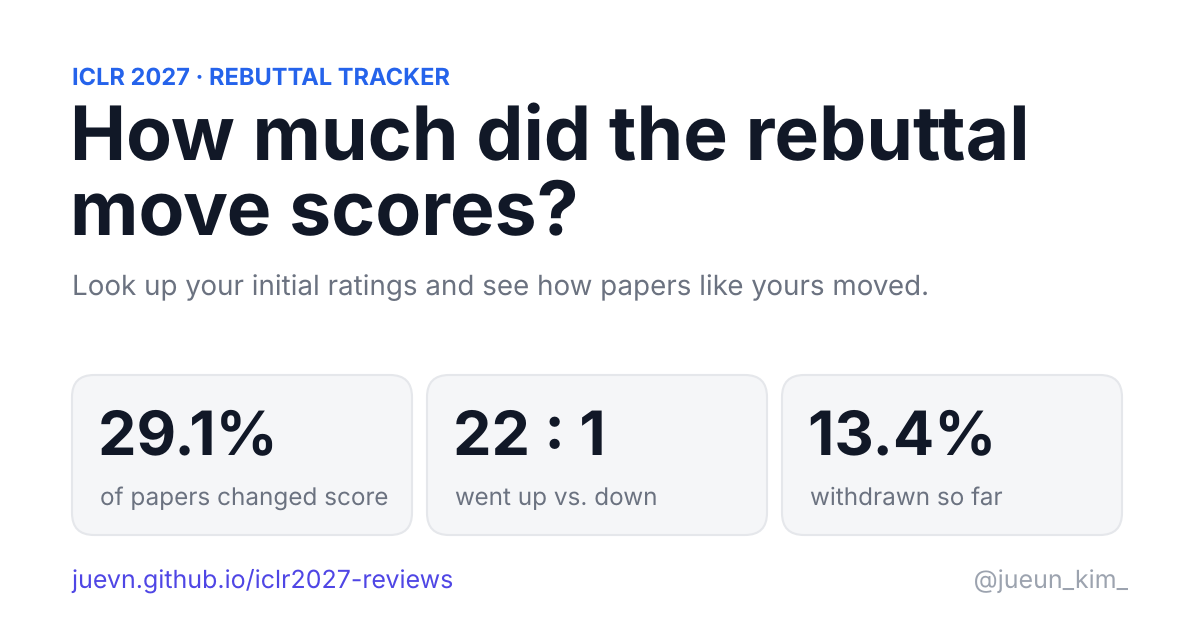
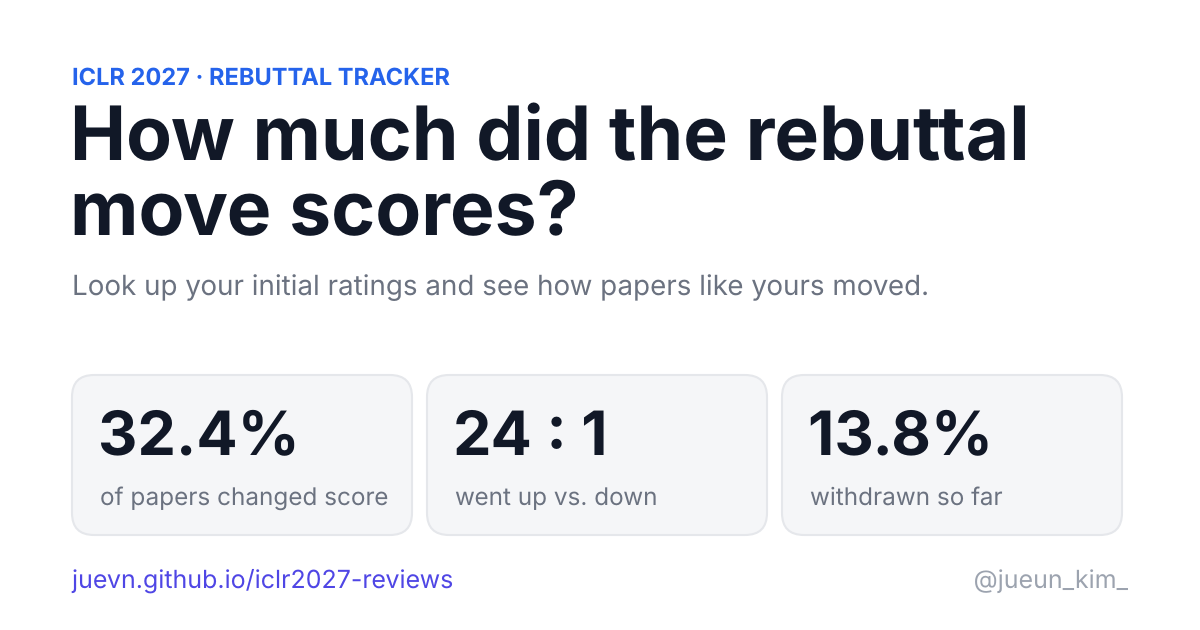
Update to 2026-11-19T03:09:58Z

diff --git a/data.js b/data.js
@@ -5,118 +5,118 @@ window.ICLR_DATA = {
   venue: "ICLR 2027",
   scale: [1,4],
   baseline: {"at":"2026-11-06T13:54:47Z","source":"https://shiqiangw.github.io/iclr-2027-scores/","by":"shiqiangw"},
-  updated: "2026-11-18T17:09:21Z",
+  updated: "2026-11-19T03:09:58Z",
   discussionEnds: "2026-11-18",
   decisions: "2026-12-16",
   combos: {
-    "1":[2,0,0,0,0,0,0,0],"2":[2,0,0,0,0,0,0,0],"11":[27,9,0,13,2,0,0,4],"21":[73,15,0,30,3,0,0,3],"22":[104,7,0,59,9,0,0,9],"31":[24,0,0,13,3,0,0,4],
-    "32":[75,0,0,33,9,1,0,8],"33":[20,0,0,14,2,0,0,2],"41":[1,0,0,1,1,0,0,1],"42":[5,0,0,3,1,0,0,1],"43":[2,0,0,1,0,0,0,0],"44":[1,0,0,1,0,0,0,0],
-    "111":[764,248,0,514,12,0,0,14],"211":[3062,953,1,2098,144,20,0,158],"221":[6602,1851,5,4727,821,40,0,998],"222":[7463,1127,3,6312,1721,45,7,2223],"311":[651,132,1,514,66,27,2,50],"321":[3548,418,0,3118,833,69,3,999],
-    "322":[7667,165,2,7474,2637,88,8,3269],"331":[675,4,0,668,216,10,4,274],"332":[3733,8,1,3710,1419,60,5,1556],"333":[773,0,0,769,159,0,0,189],"411":[30,3,0,27,5,1,0,4],"421":[215,9,1,205,59,6,1,66],
-    "422":[418,1,0,417,154,8,6,197],"431":[79,0,0,77,19,1,0,30],"432":[515,1,0,512,214,5,0,226],"433":[198,0,0,195,39,1,0,41],"441":[6,0,0,6,2,0,1,3],"442":[40,0,0,39,18,0,1,21],
-    "443":[28,0,0,28,4,1,0,3],"444":[2,0,0,2,0,0,0,0],"1111":[29,5,1,23,0,0,0,0],"2111":[107,27,0,78,4,1,0,3],"2211":[245,74,0,171,16,1,0,18],"2221":[428,101,0,321,73,1,2,113],
-    "2222":[455,96,1,357,114,1,1,158],"3111":[17,5,0,12,0,1,0,-1],"3211":[111,19,0,91,12,4,0,12],"3221":[336,46,0,290,98,7,0,124],"3222":[565,37,0,525,229,7,1,306],"3311":[28,4,0,24,6,0,1,6],
-    "3321":[133,4,0,129,55,1,0,73],"3322":[435,2,0,425,191,8,1,251],"3331":[27,0,0,27,7,2,0,9],"3332":[156,0,0,155,63,2,0,74],"3333":[17,0,0,17,2,1,0,1],"4111":[1,1,0,0,0,0,0,0],
-    "4211":[8,0,0,8,1,0,0,3],"4221":[25,2,0,23,8,1,0,15],"4222":[40,0,0,40,20,0,0,24],"4311":[1,0,0,1,0,0,0,0],"4321":[28,0,0,28,10,3,0,5],"4322":[51,0,0,51,22,2,0,25],
-    "4331":[8,0,0,8,4,0,0,5],"4332":[38,0,0,38,13,1,1,11],"4333":[7,0,0,7,0,0,0,0],"4421":[1,0,0,1,1,0,0,1],"4422":[3,0,0,3,2,0,0,3],"4431":[2,0,0,2,2,0,0,4],
-    "4432":[3,0,0,3,0,0,0,0],"4433":[4,0,0,4,0,0,0,0],"4443":[1,0,0,1,0,0,0,0],"11111":[4,1,0,3,0,0,0,0],"21111":[6,2,0,4,0,0,0,0],"22111":[14,4,0,10,2,0,0,2],
-    "22211":[22,9,0,13,2,0,0,3],"22221":[32,8,0,24,5,0,0,10],"22222":[19,3,0,16,7,0,0,8],"32111":[8,2,0,6,1,0,0,1],"32211":[21,4,0,17,3,1,2,3],"32221":[29,9,0,20,11,0,0,16],
-    "32222":[37,4,0,33,14,0,0,19],"33211":[2,0,0,2,0,1,0,-1],"33221":[27,0,0,27,11,1,0,22],"33222":[46,2,0,44,22,0,1,32],"33311":[2,0,0,2,0,0,0,0],"33321":[4,0,0,4,2,0,0,2],
-    "33322":[14,0,0,14,8,0,0,11],"33331":[2,0,0,2,0,0,0,0],"33332":[7,0,0,7,4,0,0,6],"33333":[2,0,0,2,0,0,0,0],"42221":[3,0,0,3,1,0,0,2],"42222":[1,0,0,1,0,0,0,0],
-    "43211":[1,0,0,1,1,0,0,2],"43221":[1,0,0,1,1,0,0,1],"43222":[7,0,0,7,3,1,0,3],"43322":[2,0,0,2,1,0,0,1],"43331":[1,0,0,1,0,0,0,0],"43332":[4,0,0,4,2,0,0,4],
-    "43333":[1,0,0,1,0,0,0,0],"44311":[1,0,0,1,0,0,0,0],"44322":[3,0,0,3,1,0,0,2],"44332":[3,0,0,3,2,0,0,2],"211111":[1,1,0,0,0,0,0,0],"221111":[1,1,0,0,0,0,0,0],
-    "222211":[2,1,0,1,0,0,0,0],"222221":[2,1,0,1,1,0,0,1],"322211":[1,0,0,1,1,0,0,1],"322221":[1,0,0,1,0,0,0,0],"322222":[3,0,0,3,1,0,0,1],"332222":[2,0,0,2,0,1,0,-1],
+    "1":[2,0,0,0,0,0,0,0],"2":[2,0,0,0,0,0,0,0],"11":[27,9,0,13,2,0,0,5],"21":[73,15,0,30,3,0,0,3],"22":[104,8,0,55,11,0,0,15],"31":[24,0,0,13,3,0,0,4],
+    "32":[75,0,0,33,9,0,0,9],"33":[20,0,0,14,2,0,0,2],"41":[1,0,0,1,1,0,0,1],"42":[5,0,0,3,1,0,0,1],"43":[2,0,0,1,0,0,0,0],"44":[1,0,0,1,0,0,0,0],
+    "111":[764,253,0,508,16,0,0,19],"211":[3062,986,1,2065,159,20,0,192],"221":[6602,1902,5,4677,916,42,0,1155],"222":[7463,1151,3,6288,1897,49,9,2504],"311":[651,137,1,509,74,28,0,59],"321":[3548,432,0,3104,942,69,3,1163],
+    "322":[7667,172,2,7467,2936,98,10,3696],"331":[675,4,0,668,247,11,4,317],"332":[3733,8,1,3710,1560,57,6,1730],"333":[773,0,0,769,169,1,0,200],"411":[30,4,0,26,6,0,0,7],"421":[215,10,1,204,75,8,1,85],
+    "422":[418,2,0,416,167,9,7,218],"431":[79,0,0,77,21,1,0,35],"432":[515,1,0,512,237,5,0,256],"433":[198,0,0,195,43,2,0,45],"441":[6,0,0,6,2,0,1,3],"442":[40,0,0,39,18,0,1,21],
+    "443":[28,0,0,28,4,1,0,3],"444":[2,0,0,2,0,0,0,0],"1111":[29,5,1,23,0,0,0,0],"2111":[107,27,0,78,5,1,0,4],"2211":[245,76,0,169,18,1,0,23],"2221":[428,103,0,319,77,1,2,124],
+    "2222":[455,100,1,353,124,0,1,176],"3111":[17,5,0,12,1,1,0,0],"3211":[111,23,0,87,15,5,0,16],"3221":[336,47,0,289,108,8,0,138],"3222":[565,38,0,524,251,6,2,353],"3311":[28,4,0,24,6,0,1,6],
+    "3321":[133,4,0,129,62,2,0,83],"3322":[435,2,0,425,212,8,1,279],"3331":[27,0,0,27,7,2,0,9],"3332":[156,0,0,155,72,1,0,86],"3333":[17,0,0,17,2,1,0,1],"4111":[1,1,0,0,0,0,0,0],
+    "4211":[8,0,0,8,1,0,0,3],"4221":[25,2,0,23,8,1,0,16],"4222":[40,0,0,40,21,0,0,26],"4311":[1,0,0,1,0,0,0,0],"4321":[28,0,0,28,13,3,0,11],"4322":[51,0,0,51,23,1,1,30],
+    "4331":[8,0,0,8,4,0,0,5],"4332":[38,0,0,38,15,1,1,13],"4333":[7,0,0,7,0,0,0,0],"4421":[1,0,0,1,1,0,0,2],"4422":[3,0,0,3,2,0,0,3],"4431":[2,0,0,2,2,0,0,4],
+    "4432":[3,0,0,3,0,0,0,0],"4433":[4,0,0,4,0,0,0,0],"4443":[1,0,0,1,0,0,0,0],"11111":[4,1,0,3,0,0,0,0],"21111":[6,2,0,4,0,0,0,0],"22111":[14,4,0,10,3,0,0,3],
+    "22211":[22,9,0,13,2,0,0,3],"22221":[32,8,0,24,5,0,0,11],"22222":[19,3,0,16,8,0,0,10],"32111":[8,2,0,6,1,0,0,1],"32211":[21,4,0,17,4,1,2,4],"32221":[29,9,0,20,11,0,0,18],
+    "32222":[37,4,0,33,14,0,0,20],"33211":[2,0,0,2,0,1,0,-1],"33221":[27,0,0,27,12,1,0,25],"33222":[46,2,0,44,25,0,1,39],"33311":[2,0,0,2,0,0,0,0],"33321":[4,0,0,4,2,0,0,3],
+    "33322":[14,0,0,14,8,0,0,11],"33331":[2,0,0,2,0,0,0,0],"33332":[7,0,0,7,4,0,0,6],"33333":[2,0,0,2,0,0,0,0],"42221":[3,0,0,3,1,0,0,3],"42222":[1,0,0,1,0,0,0,0],
+    "43211":[1,0,0,1,1,0,0,2],"43221":[1,0,0,1,1,0,0,2],"43222":[7,0,0,7,3,1,0,5],"43322":[2,0,0,2,1,0,0,1],"43331":[1,0,0,1,0,0,0,0],"43332":[4,0,0,4,2,0,0,4],
+    "43333":[1,0,0,1,0,0,0,0],"44311":[1,0,0,1,0,0,0,0],"44322":[3,0,0,3,1,0,0,2],"44332":[3,0,0,3,2,0,0,3],"211111":[1,1,0,0,0,0,0,0],"221111":[1,1,0,0,0,0,0,0],
+    "222211":[2,1,0,1,0,0,0,0],"222221":[2,1,0,1,1,0,0,1],"322211":[1,0,0,1,1,0,0,2],"322221":[1,0,0,1,0,0,0,0],"322222":[3,0,0,3,1,0,0,1],"332222":[2,0,0,2,0,1,0,-1],
     "333222":[1,0,0,1,1,0,0,1],"432211":[1,0,0,1,1,0,0,1],"433321":[1,0,0,1,0,0,0,0],"2222211":[1,0,0,1,0,0,0,0]
   },
   // Mean rating now -> number of papers still under review, for ranking a score against today's field.
-  currentMeans: {"n":35134,"h":{"1.00":570,"1.20":5,"1.25":81,"1.33":2028,"1.40":8,"1.50":215,"1.60":21,"1.67":4557,"1.71":1,"1.75":356,"1.80":39,"2.00":8311,"2.17":3,"2.20":57,"2.25":585,"2.33":7509,"2.40":49,"2.50":607,"2.60":43,"2.67":5317,"2.75":383,"2.80":23,"3.00":3303,"3.20":4,"3.25":60,"3.33":815,"3.40":6,"3.50":14,"3.67":141,"3.75":2,"4.00":21}},
+  currentMeans: {"n":34976,"h":{"1.00":560,"1.20":5,"1.25":80,"1.33":1985,"1.40":7,"1.50":211,"1.60":22,"1.67":4405,"1.71":1,"1.75":343,"1.80":38,"2.00":8023,"2.17":4,"2.20":55,"2.25":574,"2.33":7337,"2.40":47,"2.50":589,"2.60":42,"2.67":5480,"2.75":409,"2.80":26,"3.00":3562,"3.20":4,"3.25":71,"3.33":897,"3.40":5,"3.50":15,"3.60":1,"3.67":152,"3.75":2,"4.00":24}},
   // Review-level moves. exact: the pairing of initial and current ratings is unique.
   // inferred: more than one pairing fits, smallest-change one used.
-  reviews: {"analyzed":107493,"modified":32535,"changed":11725,"exact":10157,"inferred":1568,"initial":{"1":17716,"2":61383,"3":26532,"4":1862},"moves":{"2>3":8094,"1>2":1274,"3>4":860,"2>4":539,"1>3":441,"2>1":230,"3>2":212,"1>4":26,"4>3":25,"3>1":17,"4>2":7}},
+  reviews: {"analyzed":107003,"modified":34634,"changed":13153,"exact":11268,"inferred":1885,"initial":{"1":17540,"2":61104,"3":26500,"4":1859},"moves":{"2>3":9088,"1>2":1412,"3>4":918,"2>4":623,"1>3":562,"2>1":255,"3>2":210,"1>4":32,"4>3":27,"3>1":18,"4>2":7,"4>1":1}},
   // dest: initial ratings -> current ratings of the papers that changed (same number of reviews), with counts.
   dest: {
-    "11":{"31":2},
+    "11":{"31":1,"32":1},
     "21":{"22":1,"31":2},
-    "22":{"32":9},
+    "22":{"32":8,"33":2,"43":1},
     "31":{"32":2,"42":1},
-    "32":{"22":1,"33":9},
+    "32":{"33":9},
     "33":{"43":2},
     "41":{"42":1},
     "42":{"43":1},
-    "111":{"211":10,"221":1,"311":1},
-    "211":{"111":20,"221":97,"222":9,"311":21,"321":11,"322":2,"331":2,"332":1,"422":1},
-    "221":{"211":40,"222":371,"321":284,"322":97,"331":23,"332":29,"333":5,"421":5,"422":1,"431":2,"432":3,"433":1},
-    "222":{"211":1,"221":44,"321":7,"322":1262,"331":3,"332":349,"333":68,"422":22,"432":10,"433":6,"442":1},
-    "311":{"111":3,"211":24,"221":2,"222":2,"321":48,"322":9,"331":1,"332":1,"411":3,"421":2},
-    "321":{"211":3,"221":51,"222":3,"311":15,"322":380,"331":230,"332":119,"333":32,"421":39,"422":5,"431":11,"432":12,"433":4,"442":1},
-    "322":{"221":4,"222":47,"311":1,"321":36,"331":7,"332":1844,"333":455,"421":1,"422":141,"431":1,"432":126,"433":61,"442":5,"443":4},
-    "331":{"311":1,"321":9,"322":3,"332":118,"333":41,"421":1,"431":37,"432":12,"433":3,"441":3,"443":1,"444":1},
-    "332":{"222":1,"321":4,"322":31,"331":24,"333":1020,"422":3,"431":2,"432":216,"433":156,"442":10,"443":15,"444":2},
-    "333":{"433":134,"443":20,"444":5},
-    "411":{"211":1,"421":4,"422":1},
-    "421":{"321":6,"322":1,"422":20,"431":26,"432":13},
-    "422":{"222":1,"322":4,"332":5,"421":3,"431":1,"432":106,"433":41,"442":3,"443":4},
-    "431":{"331":1,"432":7,"433":8,"441":2,"443":2},
-    "432":{"322":1,"411":1,"422":2,"431":1,"433":164,"442":30,"443":20},
-    "433":{"333":1,"443":36,"444":3},
+    "111":{"211":13,"221":2,"311":1},
+    "211":{"111":20,"221":97,"222":15,"311":21,"321":17,"322":3,"331":3,"332":2,"422":1},
+    "221":{"211":42,"222":392,"321":309,"322":128,"331":28,"332":40,"333":7,"421":5,"422":1,"431":2,"432":3,"433":1},
+    "222":{"211":1,"221":48,"321":9,"322":1351,"331":4,"332":414,"333":87,"422":22,"432":10,"433":9},
+    "311":{"111":3,"211":25,"222":3,"321":53,"322":10,"331":1,"332":1,"411":3,"421":3},
+    "321":{"211":1,"221":51,"222":3,"311":17,"322":427,"331":248,"332":146,"333":37,"421":41,"422":6,"431":16,"432":14,"433":6,"442":1},
+    "322":{"221":5,"222":49,"311":1,"321":43,"331":8,"332":2012,"333":552,"421":2,"422":148,"431":2,"432":137,"433":75,"441":1,"442":4,"443":4,"444":1},
+    "331":{"311":2,"321":9,"322":3,"332":138,"333":49,"421":1,"431":36,"432":14,"433":5,"441":3,"443":1,"444":1},
+    "332":{"222":1,"321":6,"322":26,"331":24,"333":1118,"422":3,"431":3,"432":230,"433":179,"442":13,"443":18,"444":2},
+    "333":{"332":1,"433":142,"443":22,"444":5},
+    "411":{"421":5,"422":1},
+    "421":{"211":1,"221":1,"321":6,"322":1,"422":29,"431":28,"432":14,"433":2,"441":1,"442":1},
+    "422":{"222":1,"322":5,"332":5,"421":3,"431":2,"432":110,"433":50,"442":3,"443":4},
+    "431":{"331":1,"432":6,"433":11,"441":2,"443":2},
+    "432":{"322":1,"422":2,"431":2,"433":181,"442":32,"443":23,"444":1},
+    "433":{"333":2,"443":39,"444":4},
     "441":{"432":1,"442":1,"443":1},
     "442":{"433":1,"443":15,"444":3},
     "443":{"433":1,"444":4},
-    "2111":{"1111":1,"2211":4},
-    "2211":{"2111":1,"2221":9,"2222":1,"3211":4,"3221":1,"3311":1},
-    "2221":{"2211":1,"2222":17,"3211":2,"3221":27,"3222":10,"3321":7,"3322":5,"3331":4,"3332":1,"4221":1,"4222":1},
-    "2222":{"2221":1,"3221":1,"3222":76,"3322":29,"3332":4,"4222":3,"4322":1,"4332":1},
-    "3111":{"2111":1},
-    "3211":{"2211":4,"3221":8,"3321":2,"3322":1,"4211":1},
-    "3221":{"2111":1,"2221":5,"3211":1,"3222":32,"3321":37,"3322":14,"3331":4,"3332":5,"3333":1,"4221":1,"4222":1,"4321":3},
-    "3222":{"2222":5,"3221":2,"3321":1,"3322":148,"3332":44,"3333":12,"4222":12,"4322":10,"4332":3},
+    "2111":{"1111":1,"2211":4,"3111":1},
+    "2211":{"2111":1,"2221":9,"2222":2,"3211":4,"3221":2,"3321":1},
+    "2221":{"2211":1,"2222":19,"3211":2,"3221":26,"3222":11,"3321":8,"3322":5,"3331":4,"3332":2,"4222":1,"4421":1},
+    "2222":{"3221":1,"3222":82,"3321":1,"3322":29,"3332":7,"4222":3,"4322":1,"4333":1},
+    "3111":{"2111":1,"3211":1},
+    "3211":{"2211":5,"3221":9,"3321":4,"3322":1,"4211":1},
+    "3221":{"2111":1,"2221":5,"3211":2,"3222":37,"3321":39,"3322":15,"3331":5,"3332":6,"3333":1,"4221":1,"4321":3,"4322":1},
+    "3222":{"2222":5,"3221":1,"3321":2,"3322":153,"3332":50,"3333":17,"4222":12,"4322":14,"4332":5},
     "3311":{"3221":1,"3321":4,"4311":2},
-    "3321":{"3221":1,"3322":22,"3331":16,"3332":8,"3333":2,"4321":3,"4322":1,"4331":1,"4332":1,"4333":1},
-    "3322":{"3222":5,"3321":3,"3331":1,"3332":119,"3333":30,"4322":15,"4332":15,"4333":9,"4422":1,"4432":2},
+    "3321":{"3221":2,"3322":23,"3331":19,"3332":8,"3333":4,"4321":4,"4322":1,"4331":1,"4332":1,"4333":1},
+    "3322":{"3222":5,"3321":3,"3331":1,"3332":132,"3333":33,"4322":17,"4332":17,"4333":10,"4422":1,"4432":2},
     "3331":{"3321":2,"3332":3,"3333":1,"4331":1,"4332":1,"4333":1},
-    "3332":{"3322":2,"3333":44,"4332":9,"4333":6,"4432":1,"4433":3},
+    "3332":{"3322":1,"3333":52,"4332":8,"4333":8,"4432":1,"4433":3},
     "3333":{"3332":1,"4333":2},
     "4211":{"4322":1},
-    "4221":{"3221":1,"4222":1,"4321":3,"4322":1,"4332":1,"4431":1,"4432":1},
-    "4222":{"4322":17,"4332":2,"4333":1},
-    "4321":{"3221":2,"3321":1,"4322":8,"4331":1,"4421":1},
-    "4322":{"3222":1,"3322":1,"4332":15,"4333":6,"4422":1},
+    "4221":{"3221":1,"4222":1,"4321":3,"4322":1,"4332":1,"4432":2},
+    "4222":{"4322":17,"4332":3,"4333":1},
+    "4321":{"3221":2,"3321":1,"4322":9,"4331":1,"4332":1,"4422":1,"4431":1},
+    "4322":{"3222":1,"3332":1,"4332":14,"4333":8,"4432":1},
     "4331":{"4332":1,"4431":2,"4432":1},
-    "4332":{"3322":1,"3333":1,"4333":11,"4432":2},
-    "4421":{"4422":1},
+    "4332":{"3322":1,"3333":1,"4333":12,"4432":3},
+    "4421":{"4432":1},
     "4422":{"4432":1,"4433":1},
     "4431":{"4432":1,"4443":1},
-    "22111":{"22211":2},
+    "22111":{"22211":3},
     "22211":{"32211":1,"32221":1},
-    "22221":{"32221":2,"33321":2,"42221":1},
-    "22222":{"32222":6,"33222":1},
+    "22221":{"32221":1,"32222":1,"33321":2,"42221":1},
+    "22222":{"32222":6,"33222":2},
     "32111":{"32211":1},
-    "32211":{"22211":1,"22221":2,"32221":2,"33221":1},
-    "32221":{"32222":3,"33221":5,"33321":1,"33322":2},
-    "32222":{"33222":12,"33332":1,"33333":1},
+    "32211":{"22211":1,"22221":2,"32221":2,"33211":1,"33221":1},
+    "32221":{"32222":2,"33221":4,"33222":1,"33321":2,"33322":2},
+    "32222":{"33222":11,"33322":1,"33332":1,"33333":1},
     "33211":{"33111":1},
-    "33221":{"32221":1,"33222":2,"33321":2,"33322":2,"33331":1,"33332":2,"43321":1,"44431":1},
-    "33222":{"33321":1,"33322":13,"33332":5,"33333":1,"43222":2,"43333":1},
-    "33321":{"33322":2},
+    "33221":{"32221":1,"33222":3,"33321":2,"33322":2,"33331":1,"33332":2,"43332":1,"44431":1},
+    "33222":{"33321":1,"33322":13,"33332":6,"33333":2,"43222":2,"43322":1,"43333":1},
+    "33321":{"33322":1,"33332":1},
     "33322":{"33332":5,"33333":2,"43332":1},
     "33332":{"33333":2,"43332":1,"44333":1},
-    "42221":{"43222":1},
+    "42221":{"43322":1},
     "43211":{"43321":1},
-    "43221":{"43222":1},
-    "43222":{"43221":1,"43322":2,"43332":1},
+    "43221":{"43322":1},
+    "43222":{"43221":1,"43332":3},
     "43322":{"43332":1},
     "43332":{"44333":1,"44432":1},
     "44322":{"44333":1},
-    "44332":{"44432":2},
+    "44332":{"44432":1,"44433":1},
     "222221":{"322221":1},
-    "322211":{"332211":1},
+    "322211":{"332221":1},
     "322222":{"332222":1},
     "332222":{"332221":1},
     "333222":{"333322":1},
     "432211":{"432221":1}
   },
   // moveTimes: changed reviews per move, by 3-hour UTC bucket of the review's last edit (a later text-only edit moves it).
-  moveTimes: {"2>3":{"2026-11-06T12":2,"2026-11-06T18":2,"2026-11-07T03":1,"2026-11-08T03":1,"2026-11-08T12":1,"2026-11-09T03":2,"2026-11-09T15":2,"2026-11-09T18":1,"2026-11-09T21":2,"2026-11-10T00":1,"2026-11-10T03":1,"2026-11-10T06":3,"2026-11-10T09":1,"2026-11-10T12":1,"2026-11-10T18":2,"2026-11-10T21":2,"2026-11-11T00":3,"2026-11-11T06":2,"2026-11-11T09":4,"2026-11-11T12":3,"2026-11-11T15":3,"2026-11-11T18":3,"2026-11-11T21":1,"2026-11-12T00":9,"2026-11-12T03":7,"2026-11-12T06":8,"2026-11-12T09":5,"2026-11-12T12":4,"2026-11-12T15":11,"2026-11-12T18":8,"2026-11-12T21":5,"2026-11-13T00":5,"2026-11-13T03":19,"2026-11-13T06":17,"2026-11-13T09":18,"2026-11-13T12":17,"2026-11-13T15":15,"2026-11-13T18":23,"2026-11-13T21":23,"2026-11-14T00":12,"2026-11-14T03":82,"2026-11-14T06":132,"2026-11-14T09":70,"2026-11-14T12":71,"2026-11-14T15":54,"2026-11-14T18":42,"2026-11-14T21":32,"2026-11-15T00":51,"2026-11-15T03":56,"2026-11-15T06":89,"2026-11-15T09":75,"2026-11-15T12":74,"2026-11-15T15":75,"2026-11-15T18":37,"2026-11-15T21":38,"2026-11-16T00":105,"2026-11-16T03":160,"2026-11-16T06":196,"2026-11-16T09":174,"2026-11-16T12":174,"2026-11-16T15":158,"2026-11-16T18":106,"2026-11-16T21":81,"2026-11-17T00":156,"2026-11-17T03":233,"2026-11-17T06":846,"2026-11-17T09":427,"2026-11-17T12":426,"2026-11-17T15":387,"2026-11-17T18":252,"2026-11-17T21":200,"2026-11-18T00":338,"2026-11-18T03":539,"2026-11-18T06":601,"2026-11-18T09":496,"2026-11-18T12":462,"2026-11-18T15":349},"1>2":{"2026-11-06T18":1,"2026-11-07T15":1,"2026-11-07T18":1,"2026-11-08T00":1,"2026-11-09T00":1,"2026-11-09T06":1,"2026-11-10T00":1,"2026-11-10T12":4,"2026-11-10T15":1,"2026-11-10T18":1,"2026-11-11T03":1,"2026-11-11T06":1,"2026-11-11T18":1,"2026-11-12T03":2,"2026-11-12T06":1,"2026-11-12T12":2,"2026-11-12T15":1,"2026-11-12T21":2,"2026-11-13T03":6,"2026-11-13T06":6,"2026-11-13T09":5,"2026-11-13T12":5,"2026-11-13T15":4,"2026-11-13T18":3,"2026-11-13T21":4,"2026-11-14T00":2,"2026-11-14T03":18,"2026-11-14T06":19,"2026-11-14T09":22,"2026-11-14T12":17,"2026-11-14T15":11,"2026-11-14T18":10,"2026-11-14T21":3,"2026-11-15T00":10,"2026-11-15T03":10,"2026-11-15T06":8,"2026-11-15T09":11,"2026-11-15T12":9,"2026-11-15T15":8,"2026-11-15T18":10,"2026-11-15T21":7,"2026-11-16T00":14,"2026-11-16T03":16,"2026-11-16T06":21,"2026-11-16T09":22,"2026-11-16T12":29,"2026-11-16T15":27,"2026-11-16T18":23,"2026-11-16T21":18,"2026-11-17T00":14,"2026-11-17T03":30,"2026-11-17T06":133,"2026-11-17T09":60,"2026-11-17T12":65,"2026-11-17T15":65,"2026-11-17T18":59,"2026-11-17T21":43,"2026-11-18T00":57,"2026-11-18T03":63,"2026-11-18T06":78,"2026-11-18T09":76,"2026-11-18T12":71,"2026-11-18T15":58},"3>4":{"2026-11-06T15":1,"2026-11-07T21":1,"2026-11-08T21":1,"2026-11-09T06":1,"2026-11-09T09":1,"2026-11-10T03":1,"2026-11-10T06":1,"2026-11-10T09":1,"2026-11-10T12":2,"2026-11-11T12":1,"2026-11-11T15":1,"2026-11-11T18":1,"2026-11-11T21":2,"2026-11-12T06":1,"2026-11-12T12":1,"2026-11-12T15":2,"2026-11-12T18":2,"2026-11-12T21":2,"2026-11-13T00":1,"2026-11-13T03":4,"2026-11-13T06":6,"2026-11-13T09":6,"2026-11-13T12":4,"2026-11-13T15":1,"2026-11-13T18":3,"2026-11-13T21":5,"2026-11-14T00":3,"2026-11-14T03":7,"2026-11-14T06":12,"2026-11-14T09":7,"2026-11-14T12":16,"2026-11-14T15":7,"2026-11-14T18":8,"2026-11-15T00":5,"2026-11-15T03":9,"2026-11-15T06":8,"2026-11-15T09":14,"2026-11-15T12":14,"2026-11-15T15":8,"2026-11-15T18":7,"2026-11-15T21":3,"2026-11-16T00":14,"2026-11-16T03":24,"2026-11-16T06":24,"2026-11-16T09":19,"2026-11-16T12":18,"2026-11-16T15":17,"2026-11-16T18":22,"2026-11-16T21":11,"2026-11-17T00":19,"2026-11-17T03":19,"2026-11-17T06":67,"2026-11-17T09":47,"2026-11-17T12":49,"2026-11-17T15":37,"2026-11-17T18":33,"2026-11-17T21":28,"2026-11-18T00":25,"2026-11-18T03":43,"2026-11-18T06":44,"2026-11-18T09":43,"2026-11-18T12":45,"2026-11-18T15":31},"2>4":{"2026-11-07T03":4,"2026-11-08T12":1,"2026-11-08T15":1,"2026-11-09T09":1,"2026-11-09T12":1,"2026-11-10T09":2,"2026-11-10T18":1,"2026-11-11T09":1,"2026-11-11T12":1,"2026-11-12T03":2,"2026-11-12T12":4,"2026-11-12T15":2,"2026-11-12T18":1,"2026-11-12T21":1,"2026-11-13T03":3,"2026-11-13T06":1,"2026-11-13T09":4,"2026-11-13T12":3,"2026-11-13T15":5,"2026-11-13T18":1,"2026-11-13T21":3,"2026-11-14T00":3,"2026-11-14T03":10,"2026-11-14T06":10,"2026-11-14T09":2,"2026-11-14T12":4,"2026-11-14T15":11,"2026-11-14T18":2,"2026-11-14T21":3,"2026-11-15T00":4,"2026-11-15T03":5,"2026-11-15T06":9,"2026-11-15T09":5,"2026-11-15T12":7,"2026-11-15T15":3,"2026-11-15T18":6,"2026-11-15T21":2,"2026-11-16T00":10,"2026-11-16T03":7,"2026-11-16T06":13,"2026-11-16T09":14,"2026-11-16T12":12,"2026-11-16T15":11,"2026-11-16T18":10,"2026-11-16T21":8,"2026-11-17T00":17,"2026-11-17T03":16,"2026-11-17T06":46,"2026-11-17T09":25,"2026-11-17T12":27,"2026-11-17T15":18,"2026-11-17T18":15,"2026-11-17T21":18,"2026-11-18T00":26,"2026-11-18T03":18,"2026-11-18T06":31,"2026-11-18T09":26,"2026-11-18T12":20,"2026-11-18T15":22},"1>3":{"2026-11-12T06":2,"2026-11-12T09":1,"2026-11-12T15":2,"2026-11-12T18":3,"2026-11-12T21":1,"2026-11-13T00":1,"2026-11-13T03":1,"2026-11-13T06":1,"2026-11-13T09":1,"2026-11-13T12":2,"2026-11-13T15":2,"2026-11-13T18":2,"2026-11-13T21":4,"2026-11-14T03":4,"2026-11-14T06":9,"2026-11-14T09":5,"2026-11-14T15":8,"2026-11-14T18":6,"2026-11-14T21":1,"2026-11-15T00":5,"2026-11-15T03":2,"2026-11-15T06":3,"2026-11-15T09":2,"2026-11-15T12":4,"2026-11-15T15":5,"2026-11-15T18":5,"2026-11-15T21":10,"2026-11-16T00":1,"2026-11-16T03":8,"2026-11-16T06":11,"2026-11-16T09":4,"2026-11-16T12":7,"2026-11-16T15":5,"2026-11-16T18":8,"2026-11-16T21":6,"2026-11-17T00":4,"2026-11-17T03":14,"2026-11-17T06":37,"2026-11-17T09":17,"2026-11-17T12":22,"2026-11-17T15":18,"2026-11-17T18":19,"2026-11-17T21":13,"2026-11-18T00":26,"2026-11-18T03":24,"2026-11-18T06":30,"2026-11-18T09":31,"2026-11-18T12":23,"2026-11-18T15":21},"2>1":{"2026-11-06T12":2,"2026-11-06T15":2,"2026-11-06T18":2,"2026-11-07T00":1,"2026-11-07T03":3,"2026-11-07T06":1,"2026-11-07T12":1,"2026-11-08T15":1,"2026-11-09T06":1,"2026-11-09T09":1,"2026-11-09T18":1,"2026-11-10T18":1,"2026-11-11T09":1,"2026-11-11T12":1,"2026-11-12T00":1,"2026-11-12T03":2,"2026-11-12T12":2,"2026-11-13T06":2,"2026-11-13T09":3,"2026-11-13T15":1,"2026-11-13T21":3,"2026-11-14T03":7,"2026-11-14T06":6,"2026-11-14T09":4,"2026-11-14T12":1,"2026-11-14T15":2,"2026-11-14T18":2,"2026-11-15T00":1,"2026-11-15T06":2,"2026-11-15T09":3,"2026-11-15T12":3,"2026-11-15T15":3,"2026-11-15T18":4,"2026-11-15T21":1,"2026-11-16T00":2,"2026-11-16T03":4,"2026-11-16T06":6,"2026-11-16T09":1,"2026-11-16T12":6,"2026-11-16T15":1,"2026-11-16T18":8,"2026-11-16T21":1,"2026-11-17T00":6,"2026-11-17T03":3,"2026-11-17T06":23,"2026-11-17T09":5,"2026-11-17T12":6,"2026-11-17T15":14,"2026-11-17T18":4,"2026-11-17T21":7,"2026-11-18T00":4,"2026-11-18T03":12,"2026-11-18T06":12,"2026-11-18T09":14,"2026-11-18T12":12,"2026-11-18T15":7},"3>2":{"2026-11-06T12":2,"2026-11-06T15":2,"2026-11-06T18":1,"2026-11-06T21":1,"2026-11-07T03":2,"2026-11-08T03":1,"2026-11-08T15":1,"2026-11-09T03":1,"2026-11-09T15":1,"2026-11-11T09":1,"2026-11-11T12":2,"2026-11-12T09":1,"2026-11-13T03":1,"2026-11-13T06":1,"2026-11-14T03":4,"2026-11-14T06":3,"2026-11-14T09":3,"2026-11-14T12":2,"2026-11-14T15":1,"2026-11-14T18":4,"2026-11-15T00":1,"2026-11-15T03":2,"2026-11-15T09":1,"2026-11-15T12":1,"2026-11-15T15":1,"2026-11-15T18":3,"2026-11-16T00":2,"2026-11-16T03":6,"2026-11-16T06":5,"2026-11-16T09":2,"2026-11-16T12":3,"2026-11-16T15":4,"2026-11-16T18":2,"2026-11-16T21":3,"2026-11-17T00":7,"2026-11-17T03":9,"2026-11-17T06":24,"2026-11-17T09":9,"2026-11-17T12":5,"2026-11-17T15":14,"2026-11-17T18":9,"2026-11-17T21":4,"2026-11-18T00":11,"2026-11-18T03":8,"2026-11-18T06":8,"2026-11-18T09":10,"2026-11-18T12":13,"2026-11-18T15":10},"1>4":{"2026-11-13T09":1,"2026-11-14T06":2,"2026-11-15T12":2,"2026-11-16T09":2,"2026-11-16T15":2,"2026-11-16T21":1,"2026-11-17T00":1,"2026-11-17T03":1,"2026-11-17T06":2,"2026-11-17T15":2,"2026-11-17T18":3,"2026-11-17T21":1,"2026-11-18T03":1,"2026-11-18T06":1,"2026-11-18T09":1,"2026-11-18T15":3},"4>3":{"2026-11-07T15":1,"2026-11-11T06":1,"2026-11-13T06":1,"2026-11-13T09":1,"2026-11-14T06":1,"2026-11-15T21":1,"2026-11-16T00":1,"2026-11-16T06":1,"2026-11-16T15":1,"2026-11-17T00":1,"2026-11-17T03":1,"2026-11-17T06":1,"2026-11-17T12":1,"2026-11-17T18":1,"2026-11-18T00":2,"2026-11-18T03":1,"2026-11-18T06":3,"2026-11-18T09":3,"2026-11-18T12":2},"3>1":{"2026-11-14T03":1,"2026-11-15T06":1,"2026-11-15T09":1,"2026-11-15T21":1,"2026-11-16T00":1,"2026-11-16T03":2,"2026-11-16T06":2,"2026-11-16T15":2,"2026-11-17T06":2,"2026-11-18T03":2,"2026-11-18T06":2},"4>2":{"2026-11-16T12":1,"2026-11-17T00":1,"2026-11-17T06":1,"2026-11-17T18":1,"2026-11-18T06":1,"2026-11-18T09":1,"2026-11-18T15":1}},
+  moveTimes: {"2>3":{"2026-11-06T12":2,"2026-11-06T18":2,"2026-11-07T03":1,"2026-11-08T03":1,"2026-11-08T12":1,"2026-11-09T03":2,"2026-11-09T15":2,"2026-11-09T18":1,"2026-11-09T21":2,"2026-11-10T00":1,"2026-11-10T03":1,"2026-11-10T06":3,"2026-11-10T09":1,"2026-11-10T12":1,"2026-11-10T18":2,"2026-11-10T21":2,"2026-11-11T00":3,"2026-11-11T06":2,"2026-11-11T09":4,"2026-11-11T12":3,"2026-11-11T15":3,"2026-11-11T18":3,"2026-11-11T21":1,"2026-11-12T00":9,"2026-11-12T03":7,"2026-11-12T06":8,"2026-11-12T09":4,"2026-11-12T12":4,"2026-11-12T15":11,"2026-11-12T18":8,"2026-11-12T21":5,"2026-11-13T00":5,"2026-11-13T03":18,"2026-11-13T06":18,"2026-11-13T09":17,"2026-11-13T12":17,"2026-11-13T15":15,"2026-11-13T18":22,"2026-11-13T21":21,"2026-11-14T00":12,"2026-11-14T03":82,"2026-11-14T06":131,"2026-11-14T09":72,"2026-11-14T12":71,"2026-11-14T15":56,"2026-11-14T18":41,"2026-11-14T21":31,"2026-11-15T00":50,"2026-11-15T03":57,"2026-11-15T06":87,"2026-11-15T09":74,"2026-11-15T12":74,"2026-11-15T15":74,"2026-11-15T18":36,"2026-11-15T21":37,"2026-11-16T00":105,"2026-11-16T03":160,"2026-11-16T06":195,"2026-11-16T09":171,"2026-11-16T12":173,"2026-11-16T15":151,"2026-11-16T18":103,"2026-11-16T21":78,"2026-11-17T00":155,"2026-11-17T03":233,"2026-11-17T06":854,"2026-11-17T09":433,"2026-11-17T12":424,"2026-11-17T15":389,"2026-11-17T18":249,"2026-11-17T21":197,"2026-11-18T00":333,"2026-11-18T03":529,"2026-11-18T06":597,"2026-11-18T09":488,"2026-11-18T12":450,"2026-11-18T15":432,"2026-11-18T18":283,"2026-11-18T21":239,"2026-11-19T00":422,"2026-11-19T03":27},"1>2":{"2026-11-06T18":1,"2026-11-07T18":1,"2026-11-08T00":1,"2026-11-09T00":1,"2026-11-09T06":1,"2026-11-10T00":1,"2026-11-10T12":3,"2026-11-10T15":1,"2026-11-10T18":1,"2026-11-11T03":1,"2026-11-11T06":1,"2026-11-11T18":1,"2026-11-12T03":2,"2026-11-12T06":1,"2026-11-12T12":2,"2026-11-12T15":1,"2026-11-12T21":2,"2026-11-13T03":6,"2026-11-13T06":6,"2026-11-13T09":4,"2026-11-13T12":5,"2026-11-13T15":4,"2026-11-13T18":3,"2026-11-13T21":4,"2026-11-14T00":1,"2026-11-14T03":21,"2026-11-14T06":21,"2026-11-14T09":22,"2026-11-14T12":16,"2026-11-14T15":11,"2026-11-14T18":11,"2026-11-14T21":3,"2026-11-15T00":9,"2026-11-15T03":10,"2026-11-15T06":7,"2026-11-15T09":14,"2026-11-15T12":8,"2026-11-15T15":5,"2026-11-15T18":10,"2026-11-15T21":7,"2026-11-16T00":14,"2026-11-16T03":16,"2026-11-16T06":21,"2026-11-16T09":23,"2026-11-16T12":27,"2026-11-16T15":28,"2026-11-16T18":23,"2026-11-16T21":16,"2026-11-17T00":13,"2026-11-17T03":28,"2026-11-17T06":125,"2026-11-17T09":63,"2026-11-17T12":67,"2026-11-17T15":62,"2026-11-17T18":57,"2026-11-17T21":39,"2026-11-18T00":55,"2026-11-18T03":56,"2026-11-18T06":75,"2026-11-18T09":75,"2026-11-18T12":65,"2026-11-18T15":76,"2026-11-18T18":48,"2026-11-18T21":42,"2026-11-19T00":66,"2026-11-19T03":2},"3>4":{"2026-11-06T15":1,"2026-11-07T21":1,"2026-11-08T21":1,"2026-11-09T06":1,"2026-11-09T09":1,"2026-11-10T03":1,"2026-11-10T06":1,"2026-11-10T09":1,"2026-11-10T12":2,"2026-11-11T12":1,"2026-11-11T15":1,"2026-11-11T18":1,"2026-11-11T21":2,"2026-11-12T06":1,"2026-11-12T12":1,"2026-11-12T15":1,"2026-11-12T18":2,"2026-11-12T21":2,"2026-11-13T00":1,"2026-11-13T03":4,"2026-11-13T06":5,"2026-11-13T09":6,"2026-11-13T12":3,"2026-11-13T15":1,"2026-11-13T18":3,"2026-11-13T21":4,"2026-11-14T00":3,"2026-11-14T03":6,"2026-11-14T06":12,"2026-11-14T09":5,"2026-11-14T12":14,"2026-11-14T15":7,"2026-11-14T18":8,"2026-11-15T00":4,"2026-11-15T03":7,"2026-11-15T06":8,"2026-11-15T09":13,"2026-11-15T12":14,"2026-11-15T15":6,"2026-11-15T18":7,"2026-11-15T21":3,"2026-11-16T00":14,"2026-11-16T03":24,"2026-11-16T06":23,"2026-11-16T09":18,"2026-11-16T12":18,"2026-11-16T15":16,"2026-11-16T18":22,"2026-11-16T21":10,"2026-11-17T00":18,"2026-11-17T03":18,"2026-11-17T06":65,"2026-11-17T09":45,"2026-11-17T12":48,"2026-11-17T15":37,"2026-11-17T18":33,"2026-11-17T21":26,"2026-11-18T00":22,"2026-11-18T03":42,"2026-11-18T06":42,"2026-11-18T09":41,"2026-11-18T12":44,"2026-11-18T15":37,"2026-11-18T18":28,"2026-11-18T21":20,"2026-11-19T00":40,"2026-11-19T03":1},"2>4":{"2026-11-07T03":4,"2026-11-08T12":1,"2026-11-08T15":1,"2026-11-09T09":1,"2026-11-09T12":1,"2026-11-10T09":2,"2026-11-10T18":1,"2026-11-11T09":1,"2026-11-11T12":1,"2026-11-12T03":2,"2026-11-12T12":4,"2026-11-12T15":3,"2026-11-12T18":1,"2026-11-12T21":1,"2026-11-13T03":3,"2026-11-13T06":2,"2026-11-13T09":4,"2026-11-13T12":3,"2026-11-13T15":5,"2026-11-13T21":4,"2026-11-14T00":3,"2026-11-14T03":11,"2026-11-14T06":10,"2026-11-14T09":4,"2026-11-14T12":6,"2026-11-14T15":11,"2026-11-14T18":2,"2026-11-14T21":3,"2026-11-15T00":5,"2026-11-15T03":7,"2026-11-15T06":9,"2026-11-15T09":5,"2026-11-15T12":7,"2026-11-15T15":4,"2026-11-15T18":6,"2026-11-15T21":1,"2026-11-16T00":10,"2026-11-16T03":7,"2026-11-16T06":14,"2026-11-16T09":16,"2026-11-16T12":12,"2026-11-16T15":12,"2026-11-16T18":10,"2026-11-16T21":8,"2026-11-17T00":18,"2026-11-17T03":17,"2026-11-17T06":48,"2026-11-17T09":27,"2026-11-17T12":28,"2026-11-17T15":19,"2026-11-17T18":13,"2026-11-17T21":19,"2026-11-18T00":28,"2026-11-18T03":18,"2026-11-18T06":31,"2026-11-18T09":27,"2026-11-18T12":21,"2026-11-18T15":31,"2026-11-18T18":14,"2026-11-18T21":10,"2026-11-19T00":25,"2026-11-19T03":1},"1>3":{"2026-11-12T06":2,"2026-11-12T09":2,"2026-11-12T15":2,"2026-11-12T18":3,"2026-11-12T21":1,"2026-11-13T00":1,"2026-11-13T03":1,"2026-11-13T06":1,"2026-11-13T09":1,"2026-11-13T12":2,"2026-11-13T15":2,"2026-11-13T18":2,"2026-11-13T21":4,"2026-11-14T03":5,"2026-11-14T06":10,"2026-11-14T09":5,"2026-11-14T15":8,"2026-11-14T18":6,"2026-11-14T21":1,"2026-11-15T00":5,"2026-11-15T03":2,"2026-11-15T06":2,"2026-11-15T09":3,"2026-11-15T12":5,"2026-11-15T15":6,"2026-11-15T18":6,"2026-11-15T21":9,"2026-11-16T00":2,"2026-11-16T03":10,"2026-11-16T06":13,"2026-11-16T09":4,"2026-11-16T12":8,"2026-11-16T15":7,"2026-11-16T18":9,"2026-11-16T21":7,"2026-11-17T00":4,"2026-11-17T03":16,"2026-11-17T06":41,"2026-11-17T09":17,"2026-11-17T12":23,"2026-11-17T15":18,"2026-11-17T18":18,"2026-11-17T21":14,"2026-11-18T00":26,"2026-11-18T03":29,"2026-11-18T06":34,"2026-11-18T09":31,"2026-11-18T12":26,"2026-11-18T15":31,"2026-11-18T18":20,"2026-11-18T21":23,"2026-11-19T00":32,"2026-11-19T03":2},"2>1":{"2026-11-06T12":2,"2026-11-06T15":2,"2026-11-06T18":2,"2026-11-07T00":1,"2026-11-07T03":3,"2026-11-07T06":1,"2026-11-07T12":1,"2026-11-08T15":1,"2026-11-09T06":1,"2026-11-09T09":1,"2026-11-09T18":1,"2026-11-10T18":1,"2026-11-11T09":1,"2026-11-11T12":1,"2026-11-12T00":1,"2026-11-12T03":2,"2026-11-12T12":2,"2026-11-13T06":2,"2026-11-13T09":2,"2026-11-13T15":1,"2026-11-13T21":3,"2026-11-14T03":7,"2026-11-14T06":6,"2026-11-14T09":4,"2026-11-14T12":1,"2026-11-14T15":2,"2026-11-14T18":2,"2026-11-15T00":1,"2026-11-15T06":2,"2026-11-15T09":3,"2026-11-15T12":2,"2026-11-15T15":3,"2026-11-15T18":4,"2026-11-16T00":2,"2026-11-16T03":4,"2026-11-16T06":5,"2026-11-16T09":1,"2026-11-16T12":6,"2026-11-16T15":1,"2026-11-16T18":7,"2026-11-16T21":1,"2026-11-17T00":6,"2026-11-17T03":3,"2026-11-17T06":23,"2026-11-17T09":5,"2026-11-17T12":6,"2026-11-17T15":14,"2026-11-17T18":4,"2026-11-17T21":7,"2026-11-18T00":4,"2026-11-18T03":11,"2026-11-18T06":12,"2026-11-18T09":14,"2026-11-18T12":11,"2026-11-18T15":11,"2026-11-18T18":9,"2026-11-18T21":8,"2026-11-19T00":10,"2026-11-19T03":1},"3>2":{"2026-11-06T12":2,"2026-11-06T15":2,"2026-11-06T18":1,"2026-11-07T03":2,"2026-11-08T03":1,"2026-11-08T15":1,"2026-11-09T03":1,"2026-11-09T15":1,"2026-11-11T09":1,"2026-11-11T12":2,"2026-11-12T09":1,"2026-11-13T03":1,"2026-11-13T06":1,"2026-11-14T03":4,"2026-11-14T06":3,"2026-11-14T09":3,"2026-11-14T12":2,"2026-11-14T15":1,"2026-11-14T18":4,"2026-11-15T00":1,"2026-11-15T03":2,"2026-11-15T09":1,"2026-11-15T12":1,"2026-11-15T15":1,"2026-11-15T18":3,"2026-11-16T00":2,"2026-11-16T03":6,"2026-11-16T06":4,"2026-11-16T09":2,"2026-11-16T12":3,"2026-11-16T15":4,"2026-11-16T18":2,"2026-11-16T21":3,"2026-11-17T00":7,"2026-11-17T03":9,"2026-11-17T06":24,"2026-11-17T09":8,"2026-11-17T12":5,"2026-11-17T15":14,"2026-11-17T18":9,"2026-11-17T21":4,"2026-11-18T00":9,"2026-11-18T03":6,"2026-11-18T06":7,"2026-11-18T09":9,"2026-11-18T12":12,"2026-11-18T15":9,"2026-11-18T18":3,"2026-11-18T21":1,"2026-11-19T00":4,"2026-11-19T03":1},"1>4":{"2026-11-13T09":1,"2026-11-13T18":1,"2026-11-14T06":2,"2026-11-15T12":2,"2026-11-16T09":1,"2026-11-16T15":2,"2026-11-16T18":1,"2026-11-16T21":2,"2026-11-17T00":1,"2026-11-17T03":1,"2026-11-17T06":2,"2026-11-17T15":2,"2026-11-17T18":4,"2026-11-17T21":1,"2026-11-18T03":1,"2026-11-18T06":2,"2026-11-18T09":2,"2026-11-18T15":3,"2026-11-18T18":1},"4>3":{"2026-11-07T15":1,"2026-11-11T06":1,"2026-11-13T09":1,"2026-11-14T06":1,"2026-11-15T21":1,"2026-11-16T00":1,"2026-11-16T06":1,"2026-11-16T15":1,"2026-11-17T00":1,"2026-11-17T03":1,"2026-11-17T06":1,"2026-11-17T12":1,"2026-11-17T18":1,"2026-11-18T00":2,"2026-11-18T03":1,"2026-11-18T06":3,"2026-11-18T09":3,"2026-11-18T12":2,"2026-11-18T21":1,"2026-11-19T00":2},"3>1":{"2026-11-14T03":1,"2026-11-15T09":1,"2026-11-15T21":1,"2026-11-16T00":1,"2026-11-16T03":1,"2026-11-16T06":2,"2026-11-16T15":2,"2026-11-16T18":1,"2026-11-17T06":2,"2026-11-18T03":1,"2026-11-18T06":2,"2026-11-18T15":1,"2026-11-19T00":2},"4>2":{"2026-11-16T12":1,"2026-11-17T00":1,"2026-11-17T06":1,"2026-11-17T18":1,"2026-11-18T06":1,"2026-11-18T09":1,"2026-11-18T18":1},"4>1":{"2026-11-14T06":1}},
   // One row per update: papers still active with the same number of reviews, and how many moved.
   timeline: [
     {"at":"2026-11-06T13:54:47Z","sc":40458,"up":0,"down":0,"mixed":0,"withdrawn":0},
@@ -133,6 +133,7 @@ window.ICLR_DATA = {
     {"at":"2026-11-18T00:42:04Z","sc":35127,"up":6976,"down":359,"mixed":32,"withdrawn":5029},
     {"at":"2026-11-18T03:09:50Z","sc":35068,"up":7309,"down":370,"mixed":33,"withdrawn":5089},
     {"at":"2026-11-18T07:10:05Z","sc":34974,"up":8056,"down":388,"mixed":37,"withdrawn":5183},
-    {"at":"2026-11-18T17:09:21Z","sc":34734,"up":9634,"down":432,"mixed":48,"withdrawn":5426}
+    {"at":"2026-11-18T17:09:21Z","sc":34734,"up":9634,"down":432,"mixed":48,"withdrawn":5426},
+    {"at":"2026-11-19T03:09:58Z","sc":34574,"up":10687,"down":449,"mixed":54,"withdrawn":5583}
   ]
 };

diff --git a/README.md b/README.md
@@ -40,7 +40,7 @@ How much did the ICLR 2027 rebuttal move review scores? Every paper's initial re
 - **Initial scores.** The snapshot taken right after reviews were released (Nov 6, 13:54 UTC), published at [shiqiangw.github.io/iclr-2027-scores](https://shiqiangw.github.io/iclr-2027-scores/) ([repo](https://github.com/shiqiangw/iclr-2027-scores)), about a day after reviews were released.
 - **Current ratings.** The OpenReview API: every ICLR 2027 submission with its official reviews.
 - **Score changes.** A paper's scores now against its initial scores. Only papers still under review with the same number of reviews are counted.
-- **Review-level moves.** Reviews not edited since the snapshot keep their initial rating, which pins down the rest. When several reviews on one paper were edited and more than one pairing fits, edits that kept the rating count as text-only and the rest are paired by smallest change. This applies to 1,568 of 11,725 changed reviews (13%, as of Nov 19); the rest are pinned down exactly.
+- **Review-level moves.** Reviews not edited since the snapshot keep their initial rating, which pins down the rest. When several reviews on one paper were edited and more than one pairing fits, edits that kept the rating count as text-only and the rest are paired by smallest change. This applies to 1,885 of 13,153 changed reviews (14%, as of Nov 19); the rest are pinned down exactly.
 - **Privacy.** Only counts are published. No review text, reviewer ids, paper titles or author names.
 
 Made by [Jueun Kim](https://juevn.github.io/) ([@jueun_kim_](https://x.com/jueun_kim_)). Also: [NeurIPS 2026 Explorer](https://juevn.github.io/neurips2026/).
